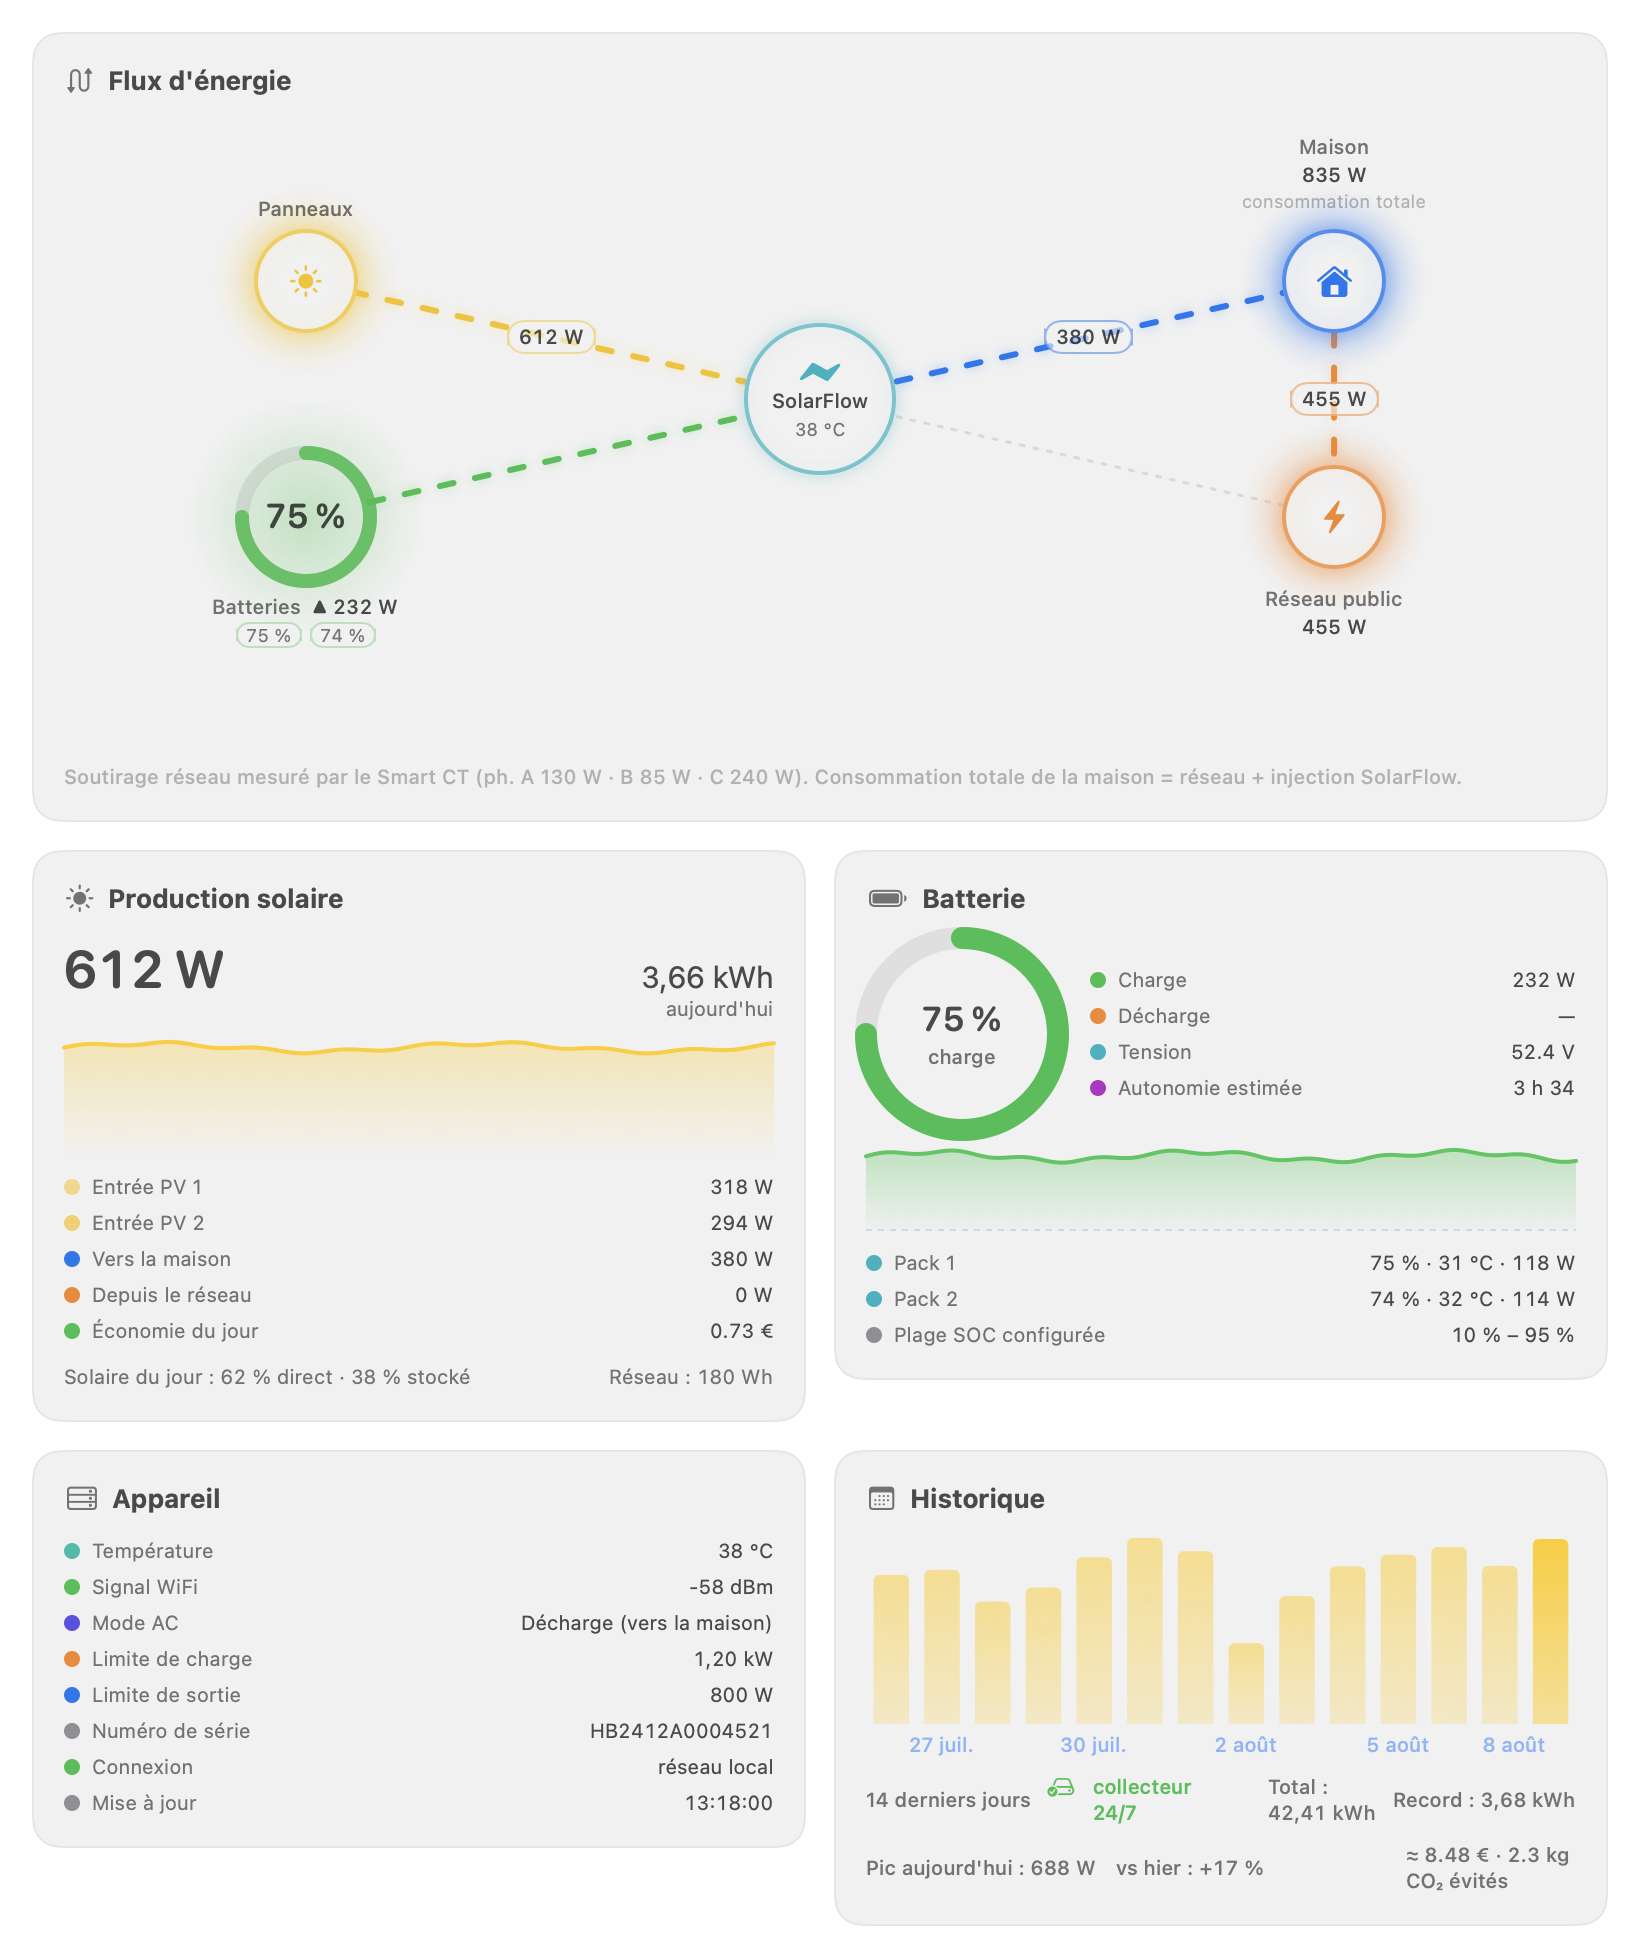
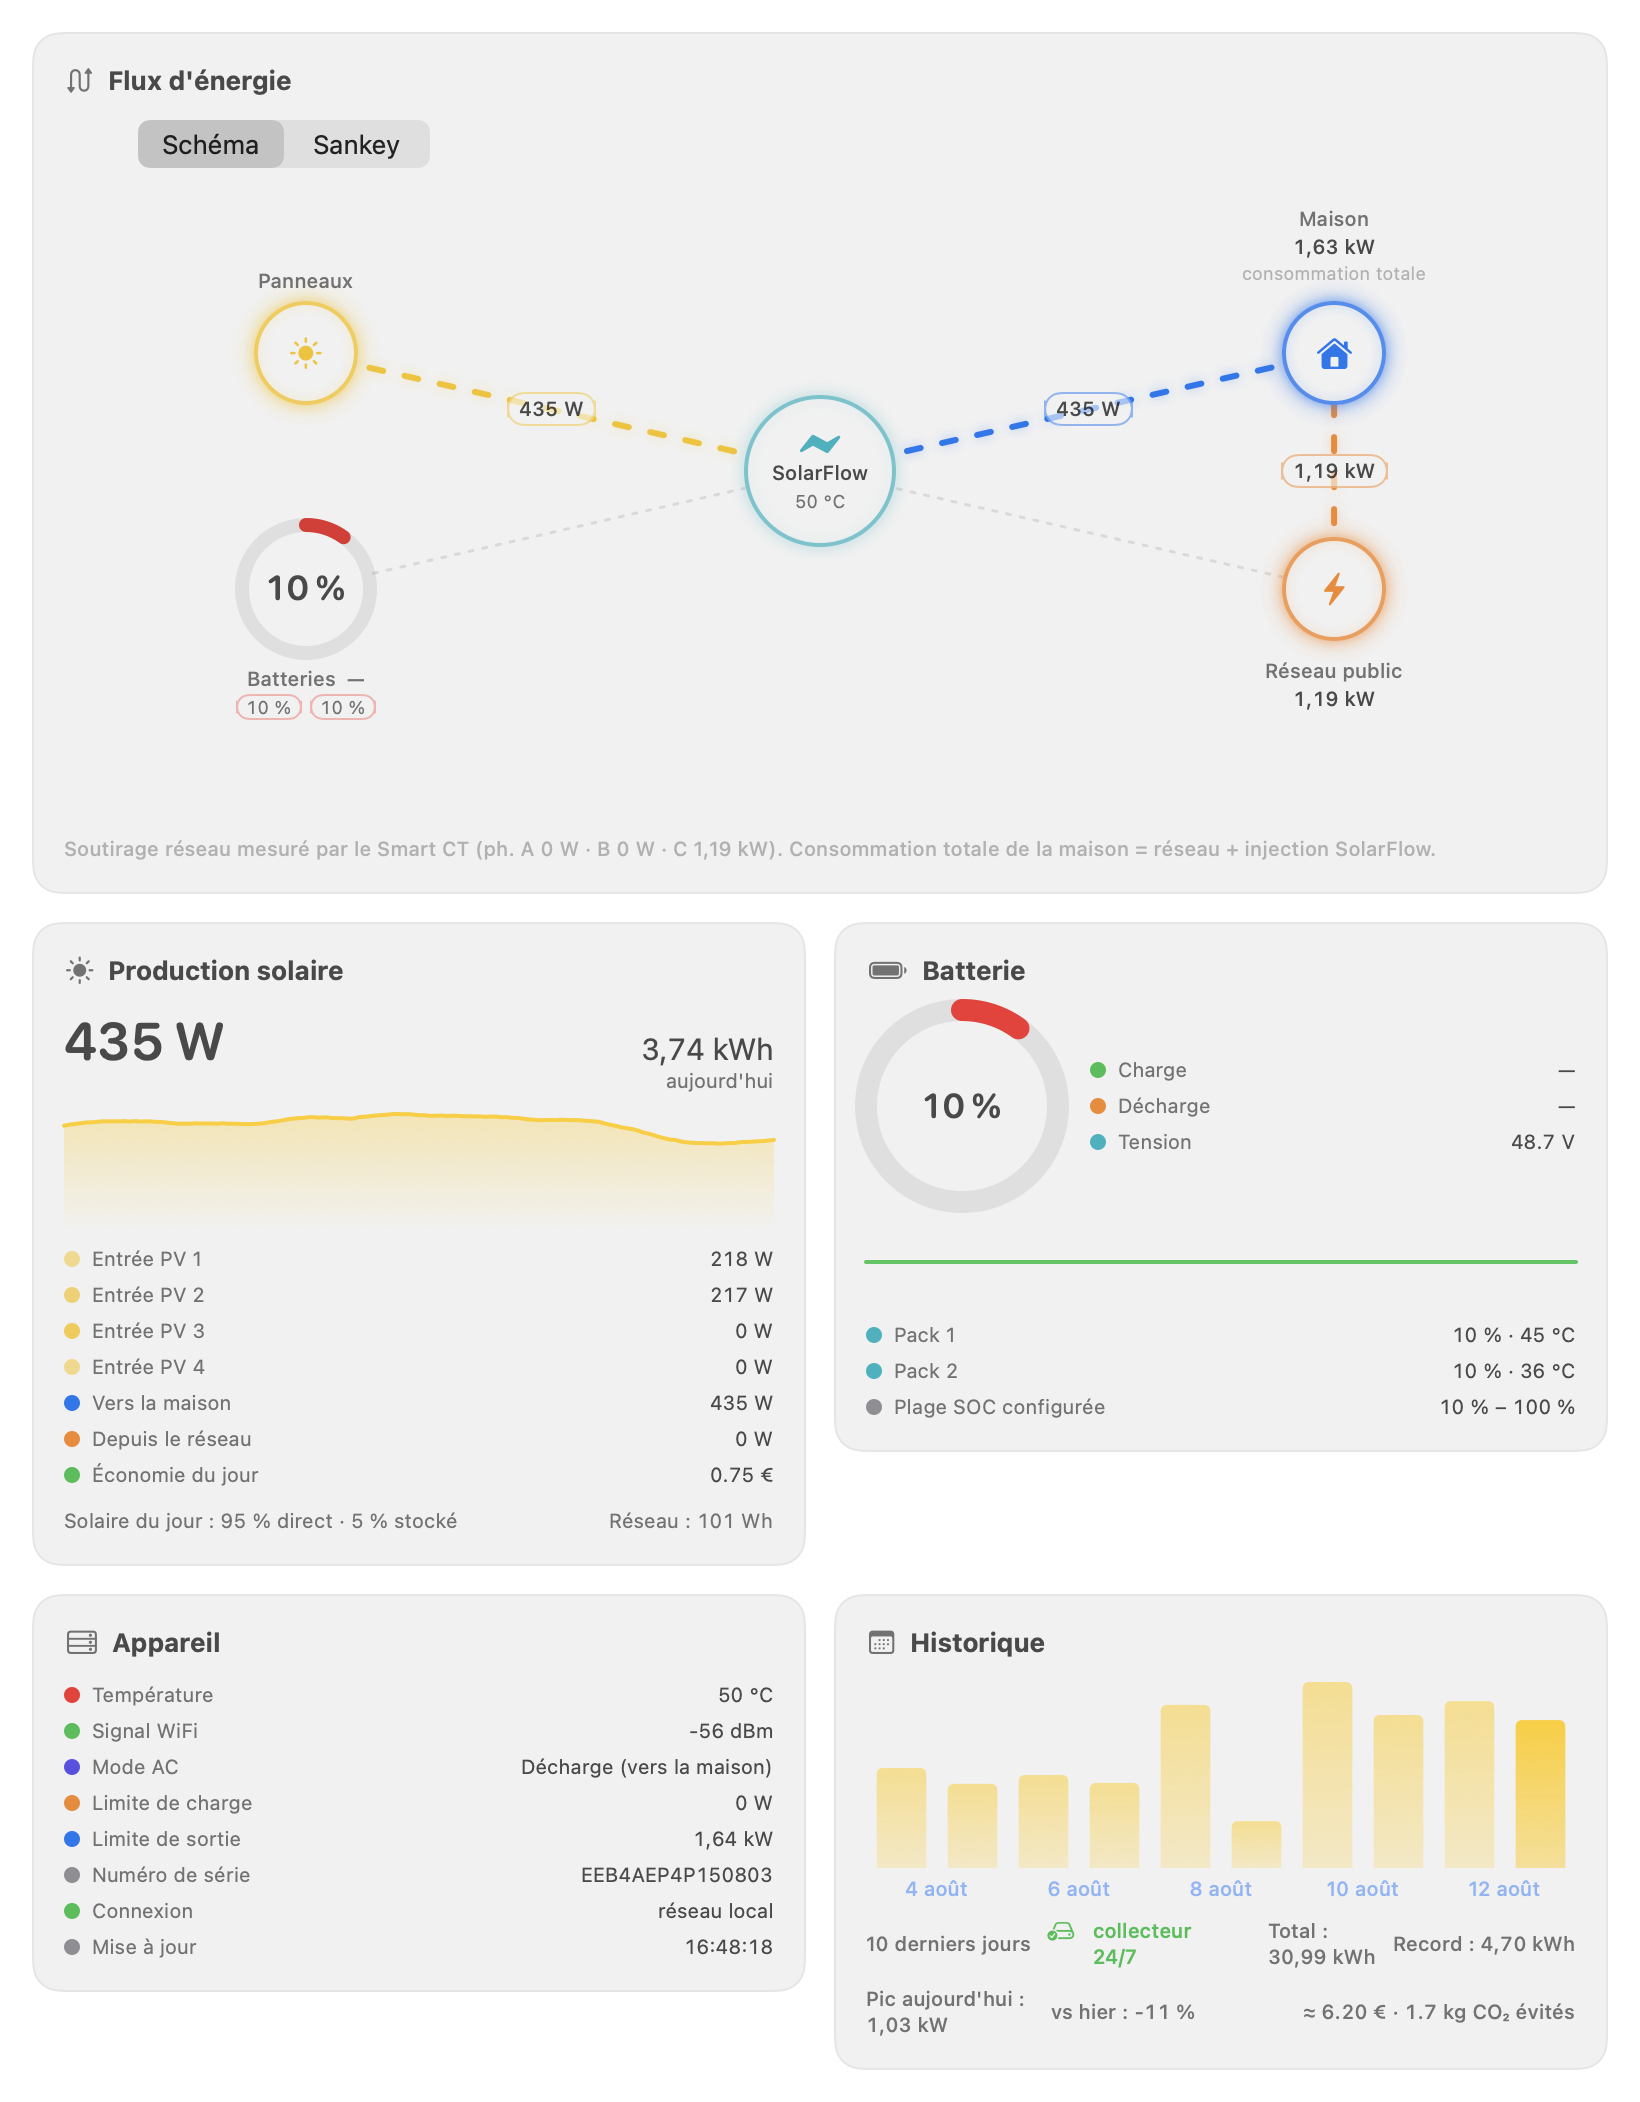
docs: refresh dashboard screenshots for both flow readings

diff --git a/README.md b/README.md
@@ -51,7 +51,11 @@ Options: choose what the menu bar shows (solar W, battery %, home W — or icon 
 - **Schematic** — the hub-centric animated diagram: SolarFlow at the center, panels, batteries, public grid, home and the off-grid outlet around it. Shows the *topology* of the installation.
 - **Sankey** — the same flows as proportional ribbons: ribbon width is watts, so the *split* reads at a glance (how much PV goes to the house vs into the battery). Sources on the left, uses on the right, and because a Sankey visually asserts that everything in comes back out, the hub's residual is drawn explicitly as a grey "Pertes & conversion" (or "Écart de mesure") ribbon rather than silently absorbed. Without a Smart CT the unmeasured grid→home draw keeps a **fixed, hatched, non-proportional** band — giving it a width would invent a number, dropping it would claim it is zero.
 
-![Dashboard](docs/dashboard.png)
+![Dashboard, schematic reading](docs/dashboard.png)
+
+The same moment, same numbers, read as a Sankey — here the grid feeds the house as a wide band that bypasses the hub entirely, while the solar production goes through the SolarFlow:
+
+![Dashboard, Sankey reading](docs/dashboard-sankey.png)
 
 **Sun window** — an animated sky dome (the sun's real path, the solstice arcs, today's production and where each panel array is aimed), a solar compass, a per-array breakdown with **azimuth and tilt sliders** that re-aim an array live, local ephemerides (NOAA algorithm, nothing leaves the Mac), the clear-sky theoretical output and the local weather (Open-Meteo) with a cloud-adjusted forecast — everything on one screen:
 

diff --git a/docs/guide/fr/tableau-de-bord.md b/docs/guide/fr/tableau-de-bord.md
@@ -32,6 +32,10 @@ Chaque lien ne **s'anime que lorsque l'énergie circule réellement**, dans le v
 
 Ici, c'est la **largeur du ruban qui vaut les watts** : la répartition se lit d'un coup d'œil (quelle part du solaire part vers la maison, quelle part va dans la batterie). Les sources sont à gauche (Réseau, Panneaux, Batteries en décharge), le SolarFlow au centre, les usages à droite (Maison, Batteries en charge, prise hors-réseau).
 
+![Le tableau de bord en lecture Sankey](../images/dashboard-sankey.png)
+
+*La même installation en Sankey : le réseau alimente la maison en bande large au-dessus du hub, la production solaire passe par le SolarFlow.*
+
 Deux points de lecture importants :
 
 - **Le bilan du hub ne boucle jamais exactement** (pertes de conversion, bruit de mesure). Un Sankey affirme visuellement que tout ce qui entre ressort : l'écart est donc dessiné en gris, explicitement, sous le nom **« Pertes & conversion »** (il entre plus qu'il ne sort) ou **« Écart de mesure »** (l'inverse) — jamais absorbé en silence.

diff --git a/docs/guide/en/dashboard.md b/docs/guide/en/dashboard.md
@@ -32,6 +32,10 @@ Each link **animates only when energy actually flows**, in the real direction, w
 
 Here the **ribbon width is the wattage**: the split reads at a glance (how much of the solar goes to the house, how much goes into the battery). Sources are on the left (Grid, Panels, Batteries discharging), the SolarFlow in the middle, uses on the right (Home, Batteries charging, off-grid outlet).
 
+![The dashboard in Sankey reading](../images/dashboard-sankey.png)
+
+*The same installation as a Sankey: the grid feeds the house as a wide band above the hub, while the solar production goes through the SolarFlow.*
+
 Two things worth knowing when reading it:
 
 - **The hub never balances exactly** (conversion losses, measurement noise). A Sankey visually asserts that everything in comes back out, so the residual is drawn explicitly in grey as **"Pertes & conversion"** (more goes in than comes out) or **"Écart de mesure"** (the other way round) — never silently absorbed.
